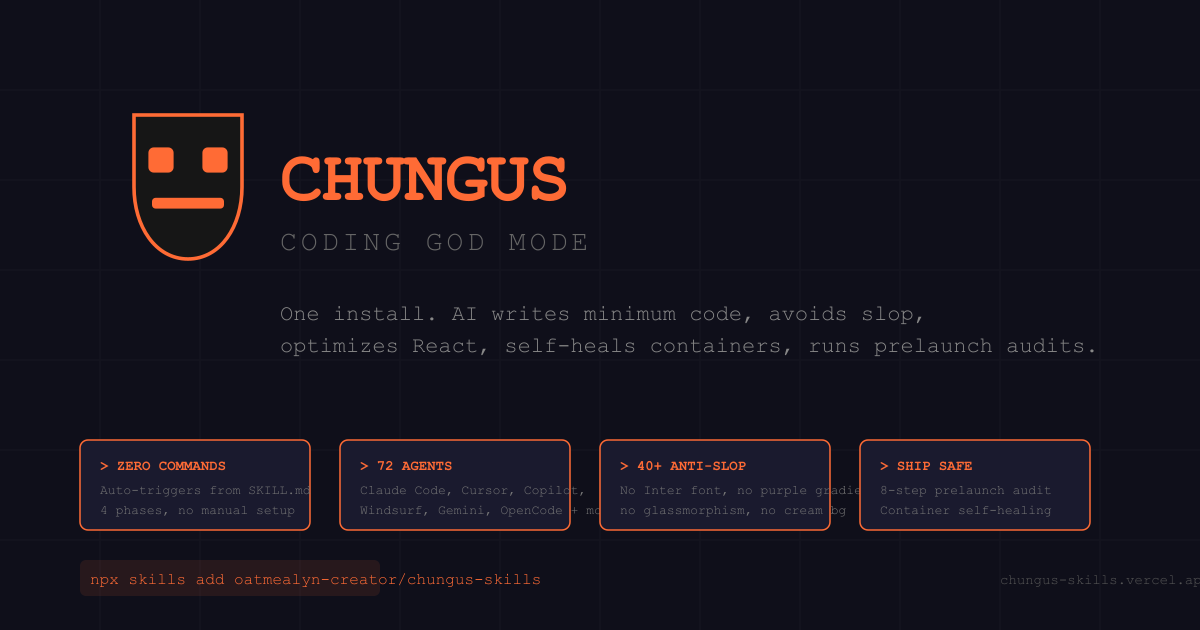
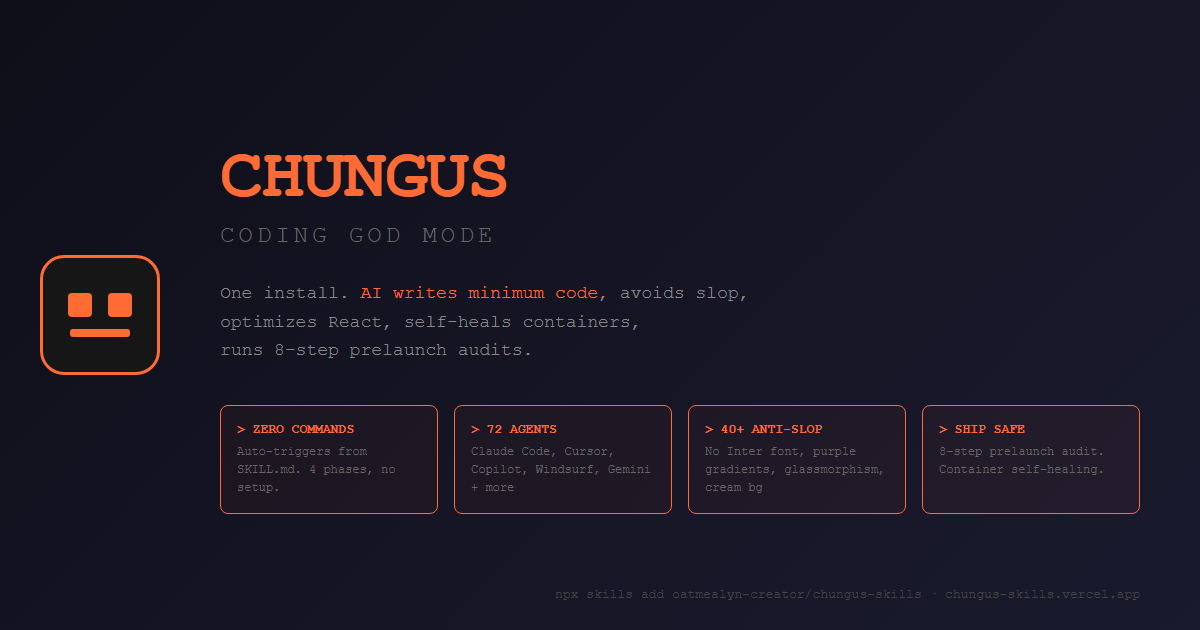
Fix OG preview: absolute URL, Playwright-rendered PNG, add dimensions and type tags

diff --git a/public/index.html b/public/index.html
@@ -7,7 +7,10 @@
 <link rel="icon" type="image/svg+xml" href="/logo.svg">
 <meta property="og:title" content="CHUNGUS — Coding God Mode">
 <meta property="og:description" content="One install. AI writes minimum code, avoids slop, optimizes React, self-heals containers, runs prelaunch audits.">
-<meta property="og:image" content="/og-image.png">
+<meta property="og:image" content="https://chungus-skills.vercel.app/og-image.png">
+<meta property="og:image:width" content="1200">
+<meta property="og:image:height" content="630">
+<meta property="og:type" content="website">
 <meta property="og:url" content="https://chungus-skills.vercel.app">
 <meta name="twitter:card" content="summary_large_image">
 <style>